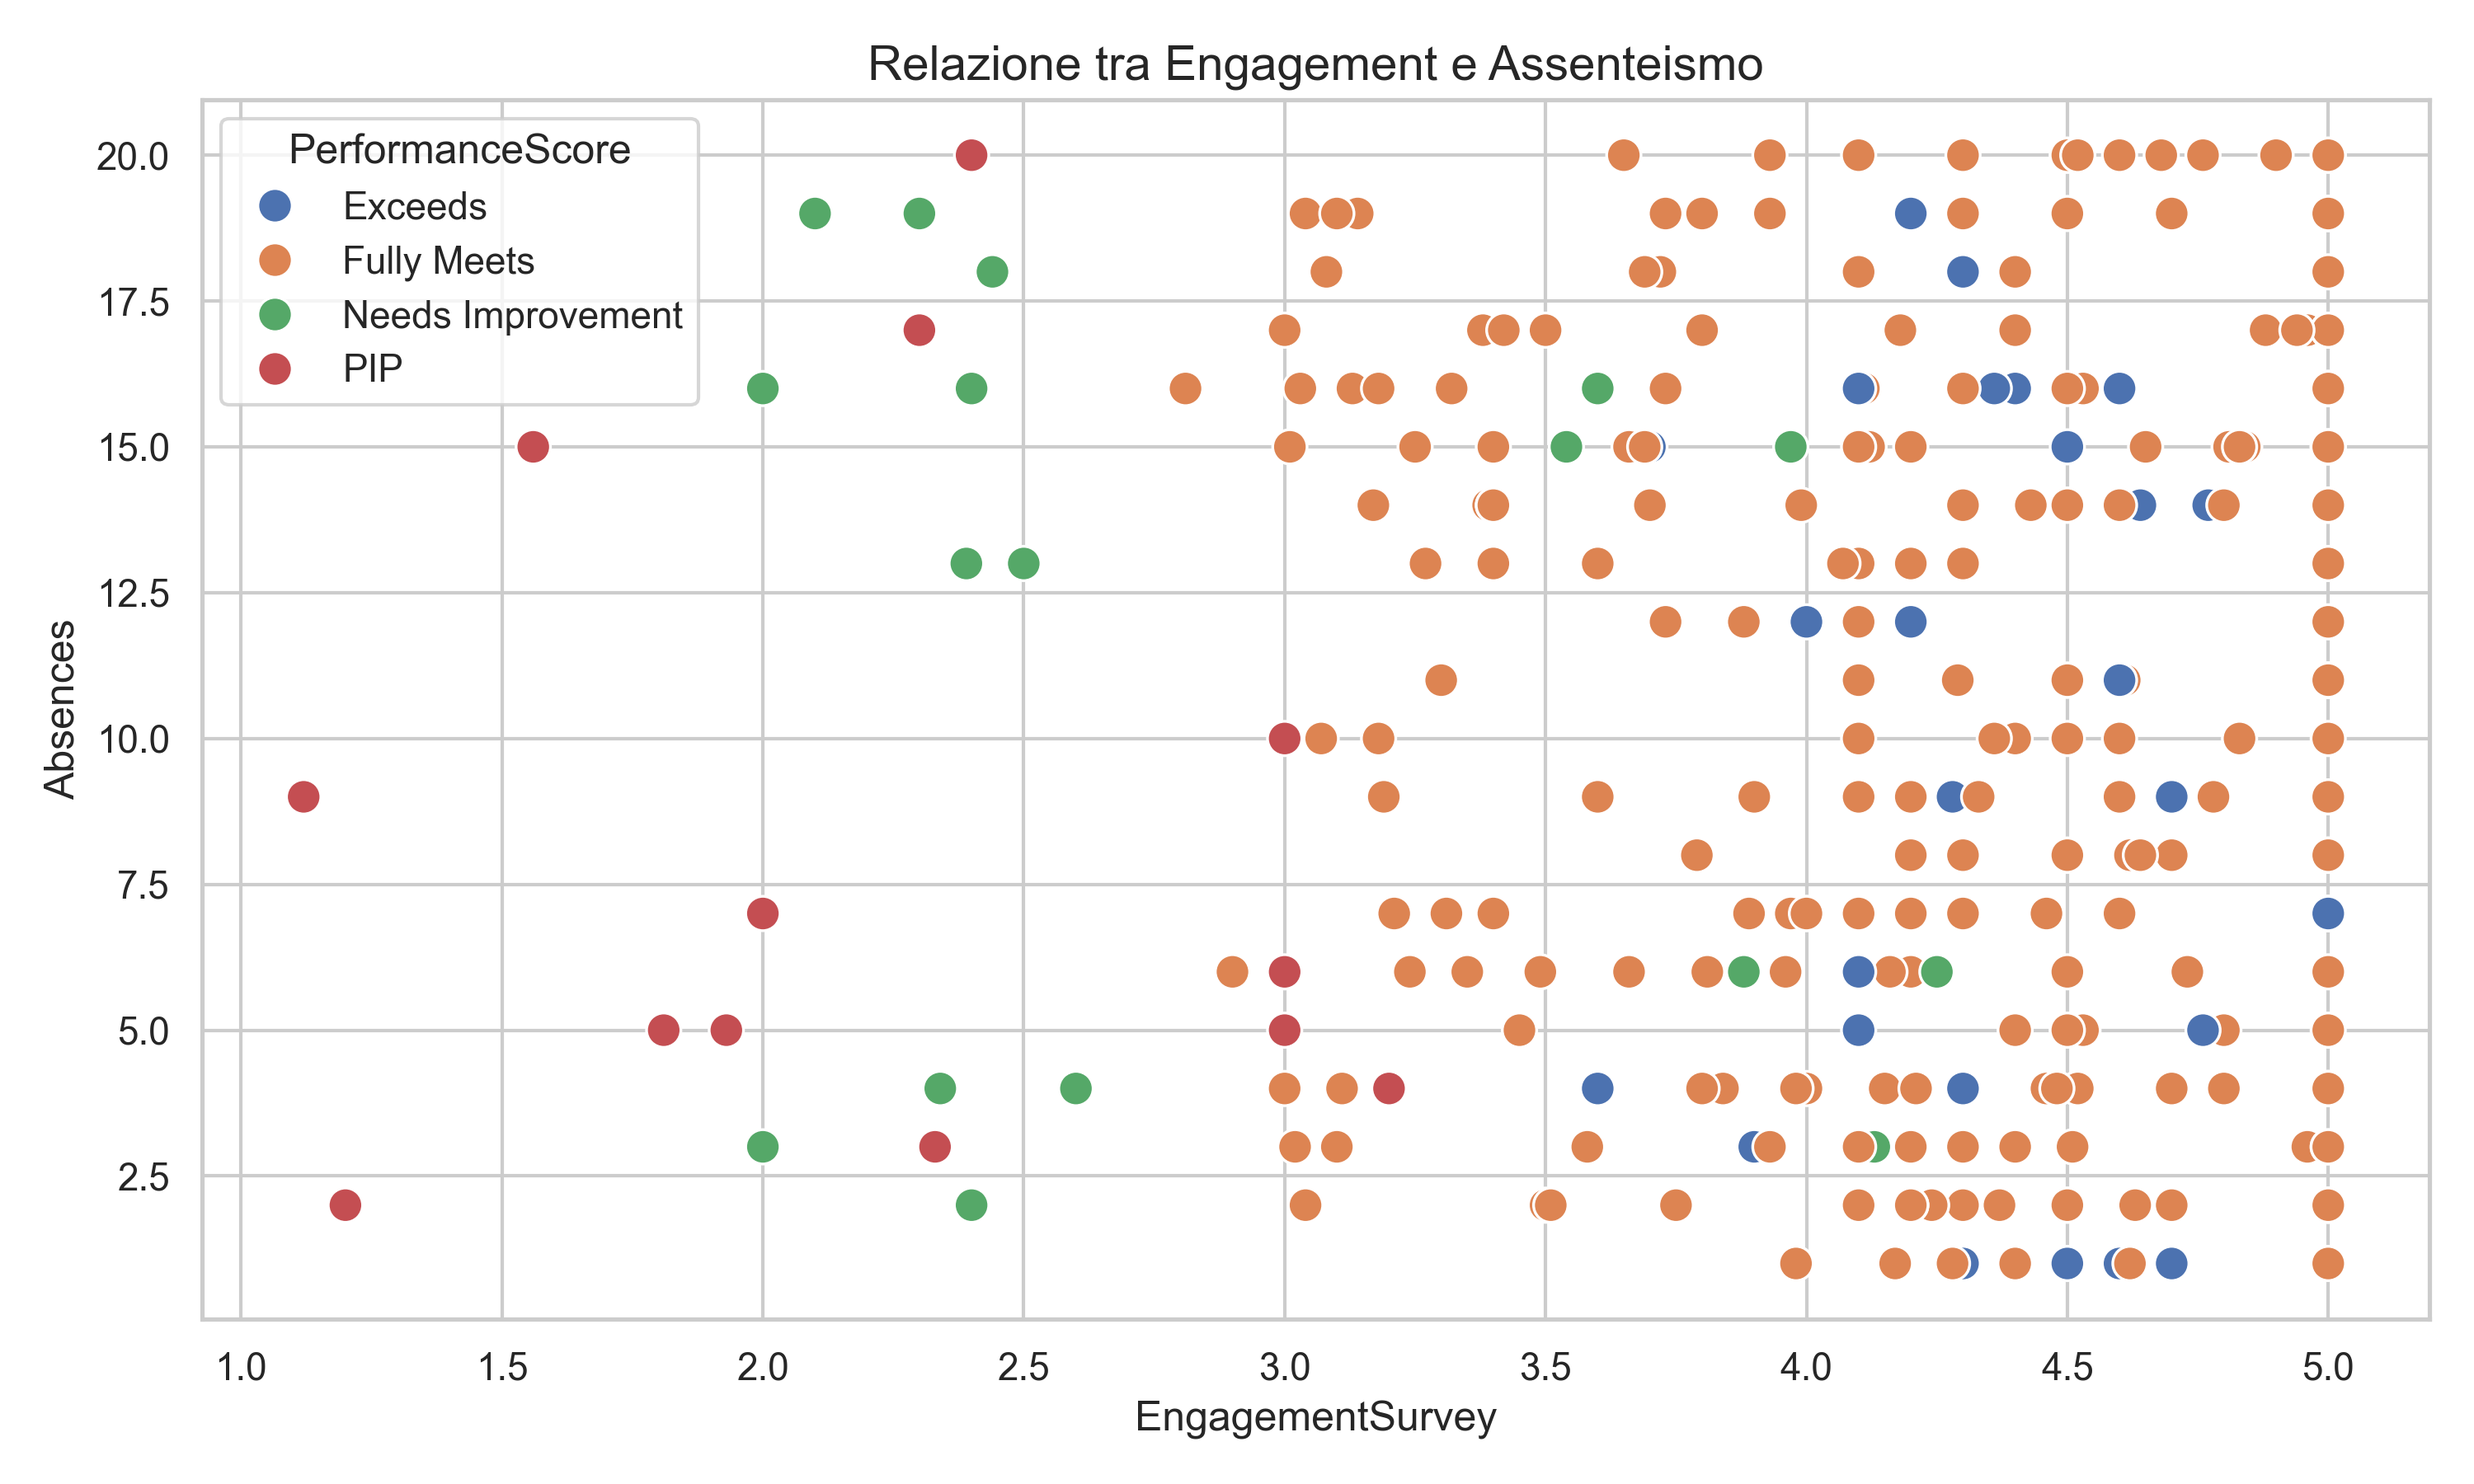
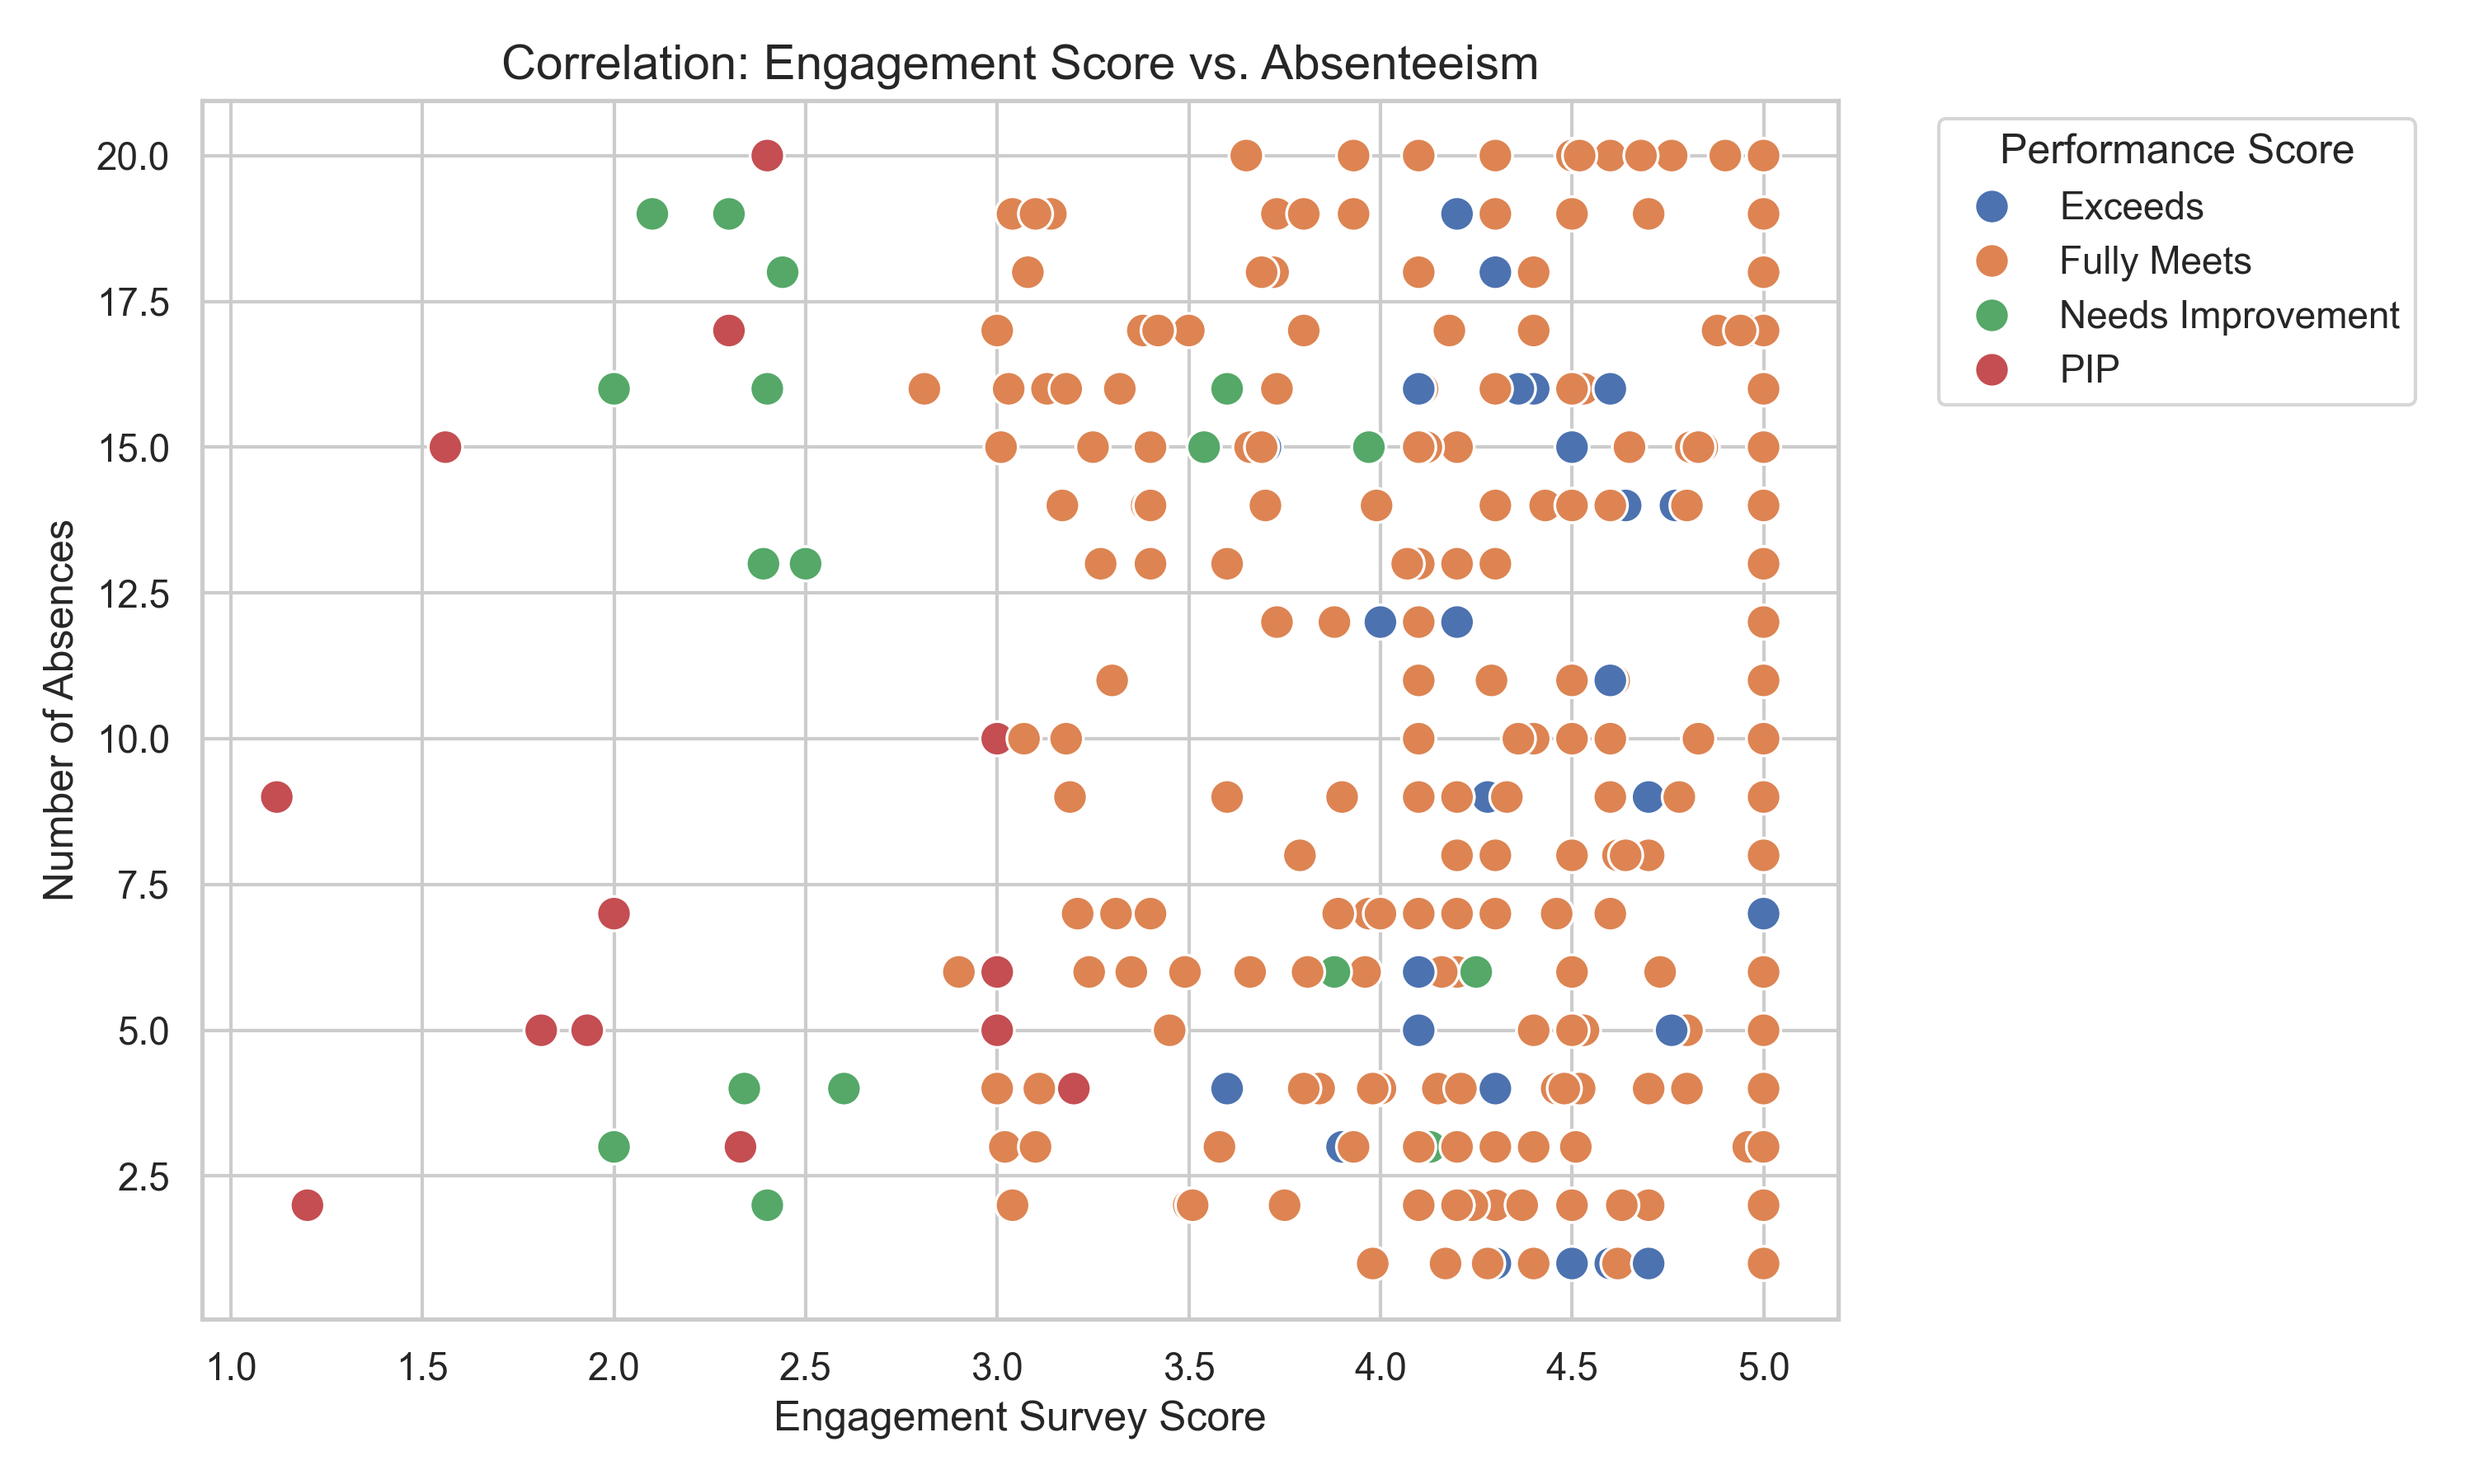
English translated

diff --git a/Analysis.py b/Analysis.py
@@ -4,43 +4,61 @@ import seaborn as sns
 import matplotlib.pyplot as plt
 import os
 
-# 1. SCARICAMENTO AUTOMATICO DA KAGGLE
-# Scarica l'ultima versione del dataset rhuebner/human-resources-data-set
+# 1. AUTOMATIC DATA DOWNLOAD FROM KAGGLE
+# Downloads the latest version of the "rhuebner/human-resources-data-set"
 path = kagglehub.dataset_download("rhuebner/human-resources-data-set")
-print(f"Dataset scaricato in: {path}")
+print(f"Dataset downloaded to: {path}")
 
-# Trova il file CSV nella cartella scaricata
+# Locate the CSV file in the downloaded folder
 csv_path = os.path.join(path, "HRDataset_v14.csv")
 df = pd.read_csv(csv_path)
 
-# 2. DEFINIAMO IL PERCORSO DI USCITA (La tua cartella sul desktop)
+# 2. DEFINE OUTPUT PATH (Your project folder on the desktop)
 output_folder = r"C:\Users\Lorenzo\Desktop\hr-analytics-project\HR-Behavioral-Analysis-v14"
 
-# Impostazioni grafiche professionali
+# Ensure the directory exists
+if not os.path.exists(output_folder):
+    os.makedirs(output_folder)
+
+# Professional graphical settings
 sns.set_theme(style="whitegrid")
 plt.rcParams['figure.dpi'] = 300
 
-# --- ANALISI A: MOTIVI DI DIMISSIONE (Psicologia del Lavoro) ---
+# --- ANALYSIS A: TERMINATION REASONS (Occupational Psychology) ---
 plt.figure(figsize=(10, 8))
+# Filter out employees who are still active
 terminated = df[df['TermReason'] != 'N/A-StillEmployed']
 sns.countplot(data=terminated, y='TermReason', order=terminated['TermReason'].value_counts().index, palette='magma')
-plt.title('Deep Dive: Perché i dipendenti lasciano l\'azienda?', fontsize=14)
+plt.title('Deep Dive: Why are employees leaving the company?', fontsize=14)
+plt.xlabel('Number of Employees')
+plt.ylabel('Reason for Termination')
 plt.tight_layout()
 plt.savefig(os.path.join(output_folder, 'hr_termination_reasons.png'))
 
-# --- ANALISI B: EQUITÀ SALARIALE PER GENERE ---
+# --- ANALYSIS B: GENDER PAY EQUITY (DEI) ---
 plt.figure(figsize=(12, 6))
 sns.boxplot(data=df, x='Department', y='Salary', hue='Sex', palette='Set2')
 plt.xticks(rotation=45)
-plt.title('Analisi Equità Salariale (DEI)', fontsize=14)
+plt.title('Salary Equity Analysis by Department & Gender', fontsize=14)
 plt.tight_layout()
 plt.savefig(os.path.join(output_folder, 'hr_gender_pay_equity.png'))
 
-# --- ANALISI C: ENGAGEMENT VS ASSENZE ---
+# --- ANALYSIS C: ENGAGEMENT VS. ABSENTEEISM (Burnout Risk) ---
 plt.figure(figsize=(10, 6))
 sns.scatterplot(data=df, x='EngagementSurvey', y='Absences', hue='PerformanceScore', s=100)
-plt.title('Relazione tra Engagement e Assenteismo', fontsize=14)
+plt.title('Correlation: Engagement Score vs. Absenteeism', fontsize=14)
+plt.xlabel('Engagement Survey Score')
+plt.ylabel('Number of Absences')
+plt.legend(title='Performance Score', bbox_to_anchor=(1.05, 1), loc='upper left')
 plt.tight_layout()
 plt.savefig(os.path.join(output_folder, 'hr_engagement_vs_absences.png'))
 
-print(f"\n✅ Analisi completata! I grafici sono stati salvati in: {output_folder}")
+# 3. EXPORT CLEANED DATA FOR POWER BI
+# Cleaning strings to avoid issues in Power BI filters
+df['Sex'] = df['Sex'].str.strip()
+df['Department'] = df['Department'].str.strip()
+cleaned_csv_path = os.path.join(output_folder, "data_cleaned.csv")
+df.to_csv(cleaned_csv_path, index=False)
+
+print(f"\n✅ Analysis complete!")
+print(f"📊 Charts and cleaned CSV saved in: {output_folder}")
